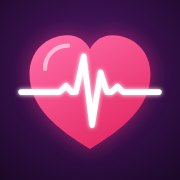
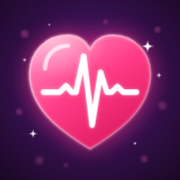
앱 아이콘: 파동을 하트 안으로, 조금 더 화려하게
- 사용자 결정: 파동은 하트 안쪽에만, "조금만 더 화려하게"
- 하트 뒤 빛 무리, 가장자리 연분홍 빛(왼쪽 위 밝게), 광택, 빛 망울 8·반짝이
- Codex 검토 반영: 파동 번짐을 줄여(흐림 6·불투명 35%) 작은 크기에서 꺾임이 또렷하게,
  32px 파비콘은 빛 망울·반짝이를 빼고 파동만 굵게
- PNG 세 개는 node tools/icons.mjs로 다시 만듦, deploy.md·DECISIONS 줄 갱신

diff --git a/docs/DECISIONS.md b/docs/DECISIONS.md
@@ -111,4 +111,4 @@
 | 2026-11-20 | 둘째 가지(6b)를 Codex에게 두 번 검토받아 열한 가지를 고침(첫 여섯 + 고친 것을 다시 보이고 나온 다섯) — 늦게 끝난 답변 추천이 옛 방 객체를 저장해 그사이의 대화를 덮던 길(지금의 방에서 그 메시지를 다시 찾아 적고 없으면 되돌림), 하트 확인 창을 보는 사이 잔액이 늘면 확인한 값보다 더 나가던 길, 빈칸뿐인 추천을 받은 것으로 치던 것, 답변의 버전을 바꾼 뒤 값 없는 추천 버튼이 남던 것, 검색 강조 자리가 어긋나는 글자, 시험이 확인하지 않던 곳들. 다시 본 다섯: 다른 방을 보는 사이 끝난 추천(저장된 최신 방에 붙임), 버전 번호가 밀리는 경우(글로 찾음), 확인 창을 보는 사이 요금제가 끝나는 경우(확인 때 보인 견적 그대로 냄), İ가 든 글의 대소문자, 주입 시험의 검색 결과 확인. 모두 동의해 반영(갈린 의견 없음) | Codex 검토(사용자 상시 허용 2026-11-20) | src/js/ui/chat/suggest.js·ui/pay.js·ui/chat/log.js·ai/parse.js·ui/chat/search.js·tests/e2e/chatflow.mjs |
 | 2026-11-20 | 표지 화풍을 다시 정함(2026-11-14의 '일상 화풍 기준 · 대표 한 명만'을 대체) — 한 모델(Nova Orange, 남성향 애니 v9)로 맞추고 표지는 그 화풍의 칸 1에서 구도·표정 세기·빛만 바꿈. 네 유형: 얼굴 가까이(90일·금서고·탐정·찻집) · 한 명 + 배경(편의점·대연궁·레테·기사) · 단체(신님들·하숙집·십절곡·황후) · 상징물(민원실·백야호). 빛은 어둡고 피폐하게 + 작품 색 조명을 세게, 흐트러진 머리·무심한 시선, 밝은 작품(편의점·하숙집)은 밝게 둠. 단체는 배경과 인물 셋을 따로 그려 배경을 지우고 머리 크기로 자리를 맞춰 얹은 뒤 0.1로만 이음(가운데 정면 · 양옆은 살짝 뒤에서 가운데를 봄 — 내려다보는 구도·앉은 자세·원근 배치는 물림). 로고는 작고 가는 획에 빛번짐·장식선(굵은 겹테와 글자마다 흔드는 방식은 물림), 글꼴 배정 확정. 값은 archive/style-works(cover.js·cover-group.js·compose.js·cover-post.js·logos.js), 확정 그림과의 차이는 그 README |
 | 2026-11-21 | 그림 관리 페이지를 **그림 총괄 페이지**로 넓힘(npm run art, 이 PC 전용 그대로) — 모든 작품의 표지·인물·감정 칸·장소를 한곳에서 한 칸씩·작품씩·전부 그리고, 후보를 저장소 밖의 보관함(<홈>/HEARTSYNC-art)에 쌓아 다시 열어도 보이게 함. 단체 표지는 조각을 보관함에 남겨 '자리 맞추기'로 다시 붙임(미리 보기는 호출 없음). 연습 모드(--mock)로 비용 없이 흐름을 돌려 봄. 키는 여전히 페이지의 localStorage에만 |
-| 2026-11-21 | 앱 아이콘을 벡터 원본으로 다시 그림 — 로즈골드 테두리를 없애고 바탕을 꽉 채운 아이콘형으로, 구성(하트 + 심장 박동 파동 = HEART SYNC)은 그대로. 채운 분홍 그라데이션 하트에 흰 파동이 양옆으로 조금 나옴, 32px 파비콘은 파동만 굵게. 원본 icons/src/*.svg, PNG는 node tools/icons.mjs. 새 모양(말풍선 하트·S자 하트)은 사용자가 "점점 이상해진다"며 거절 | 사용자("테두리 없애고 아이콘화" → "채운 하트로 넣어 줘") · Codex 검토(채운 하트 추천·파동 길이·32px 선 굵기 수치) | icons/ · tools/icons.mjs · docs/app/deploy.md |
+| 2026-11-21 | 앱 아이콘을 벡터 원본으로 다시 그림 — 로즈골드 테두리를 없애고 바탕을 꽉 채운 아이콘형으로, 구성(하트 + 심장 박동 파동 = HEART SYNC)은 그대로. 채운 분홍 그라데이션 하트 안에 흰 파동(사용자가 "하트 안으로"), 하트 뒤 빛 무리·가장자리 빛·광택·빛 망울·반짝이로 조금 더 화려하게(사용자 "조금만 더 화려하게"), 32px 파비콘은 빛 망울·반짝이를 빼고 파동만 굵게. 원본 icons/src/*.svg, PNG는 node tools/icons.mjs. 새 모양(말풍선 하트·S자 하트)은 사용자가 "점점 이상해진다"며 거절 | 사용자("테두리 없애고 아이콘화" → "채운 하트로 넣어 줘") · Codex 검토(채운 하트 추천·파동 길이·32px 선 굵기 수치) | icons/ · tools/icons.mjs · docs/app/deploy.md |

diff --git a/docs/app/deploy.md b/docs/app/deploy.md
@@ -8,7 +8,7 @@
 
 ## 아이콘·정책 문서
 
-- 아이콘: icons/(favicon-32·icon-192는 모서리 투명, apple-touch-icon 180은 불투명 정사각 — iOS가 깎음). 원본은 SVG 두 장 icons/src/(app-icon.svg — 보라 바탕·채운 분홍 하트·흰 심장 박동 파동, favicon.svg — 32px용으로 파동만 굵게). 고친 뒤 `node tools/icons.mjs`로 PNG를 다시 만들어 같이 커밋(빌드와 무관). 화면 로고 .logo .mark(css/15-shell.css)가 icon-192를 씀
+- 아이콘: icons/(favicon-32·icon-192는 모서리 투명, apple-touch-icon 180은 불투명 정사각 — iOS가 깎음). 원본은 SVG 두 장 icons/src/(app-icon.svg — 보라 바탕·빛 망울·반짝이, 빛 무리와 광택을 두른 채운 분홍 하트, 하트 안쪽의 흰 심장 박동 파동 / favicon.svg — 32px용으로 빛 망울·반짝이를 빼고 파동만 굵게). 고친 뒤 `node tools/icons.mjs`로 PNG를 다시 만들어 같이 커밋(빌드와 무관). 화면 로고 .logo .mark(css/15-shell.css)가 icon-192를 씀
 - 개인정보처리방침 privacy.html·이용약관 terms.html(**법률 검토 전 초안**) — 스크립트 없는 정적 페이지. 로그인 화면 맨 아래와 MY → 약관 및 정책에 링크, 파일로 열면 docUrl()(ui/help.js)이 웹 주소로. 수집 항목·저장 위치·AI 전송 대상·결제·성인 이용이 바뀌면 같이 고치고 시행일을 바꾸기(지금 시행일 **11-23**(2026-11-09 사용자 결정 — 11-16 예정안에 합쳐 미룸) — 2026-11-08 정리에 맞춰 고침: Anthropic만, 그림 생성·키 금고·성인 모드·본인인증·커뮤니티 없음, 예전 기능의 계정 데이터는 #old 항목. 프레임 3차로 더한 항목: 내 서재(찜·최근 본·모은 그림 기록·에피소드에서 본 결말 기록 — 결말은 2026-11-11 더함)를 11-23부터 계정에 저장(core/constants.js SHELF.syncFrom과 같은 날 — 단위 시험 shelf가 두 날짜가 같은지 봄), 메시지 신고에 담기는 것(#ask). 약관의 등장인물 나이(2026-11-11 사용자 결정 — 한눈에 보기·제8조): 전체이용가는 나이 제한 없이 미성년끼리의 연애만 성적 묘사 없이 허용, 성인과 미성년 사이의 연애·성적 묘사와 미성년의 성적 묘사는 금지, ‘모든 등장인물은 성인’은 성인 모드에만(출시판 초안은 docs/legal). 시행 7일 전(11-16)까지 서비스 안 공지가 올라가야 함 — 사용자가 관리자 도구에서, 늦으면 시행일과 SHELF.syncFrom을 같이 미룸. 11-13·11-16 시행 예정안은 시행 전에 바뀜. 위쪽 '변경 안내' 문단은 시행일이 지나면 지우기)
 
 ## 관리자 관문
